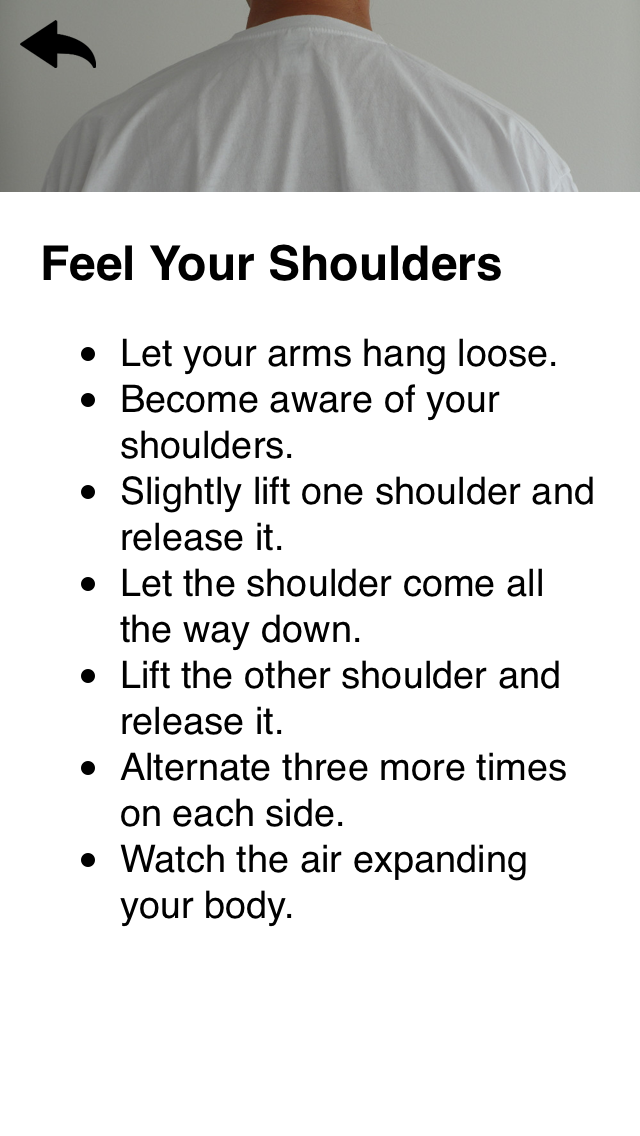
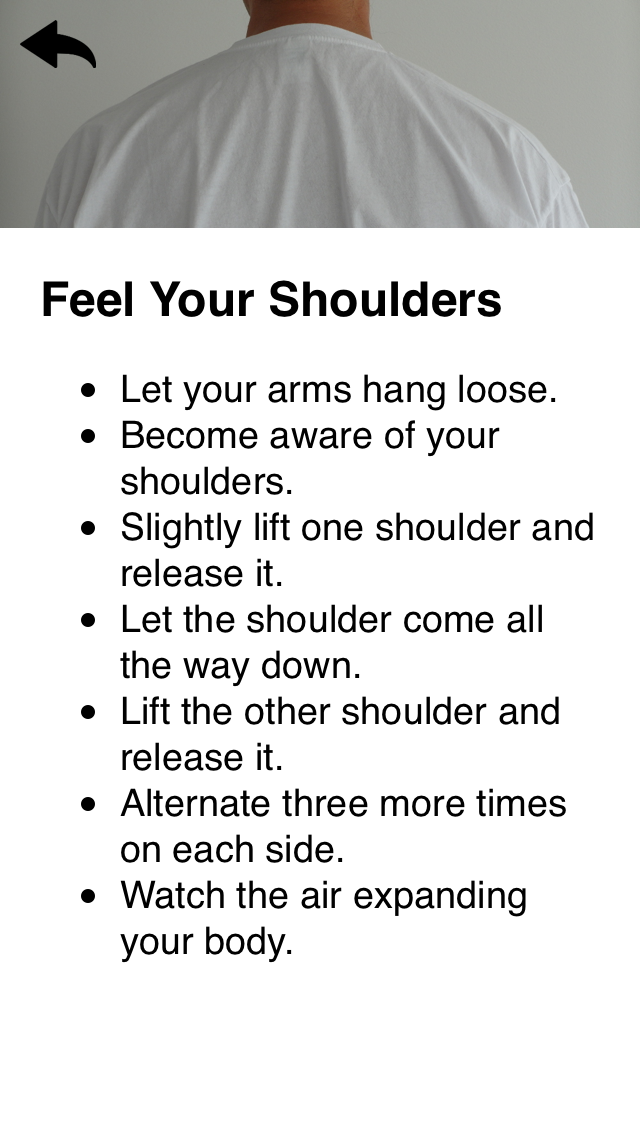
Updated the DIY beacon example with new graphics, screenshots etc.

diff --git a/Demos2014/ArduinoBeacon/index.html b/Demos2014/ArduinoBeacon/index.html
@@ -19,7 +19,7 @@
 
 <body>
 
-	<div class="my-page" id="page-default">
+	<div class="my-page" id="page-default-orig">
 		<div class="my-header">
 			<img class="my-header-image" src="photos/photo-default.jpg" />
 			<img class="my-icon-back" src="icon-back.png" ontouchend="history.back()" />
@@ -71,7 +71,7 @@
 		</div>
 	</div>
 
-	<div class="my-page" id="page-face">
+	<div class="my-page" id="page-default">
 		<div class="my-header">
 			<img class="my-header-image" src="photos/photo-face.jpg" />
 			<img class="my-icon-back" src="icon-back.png" ontouchend="history.back()" />
